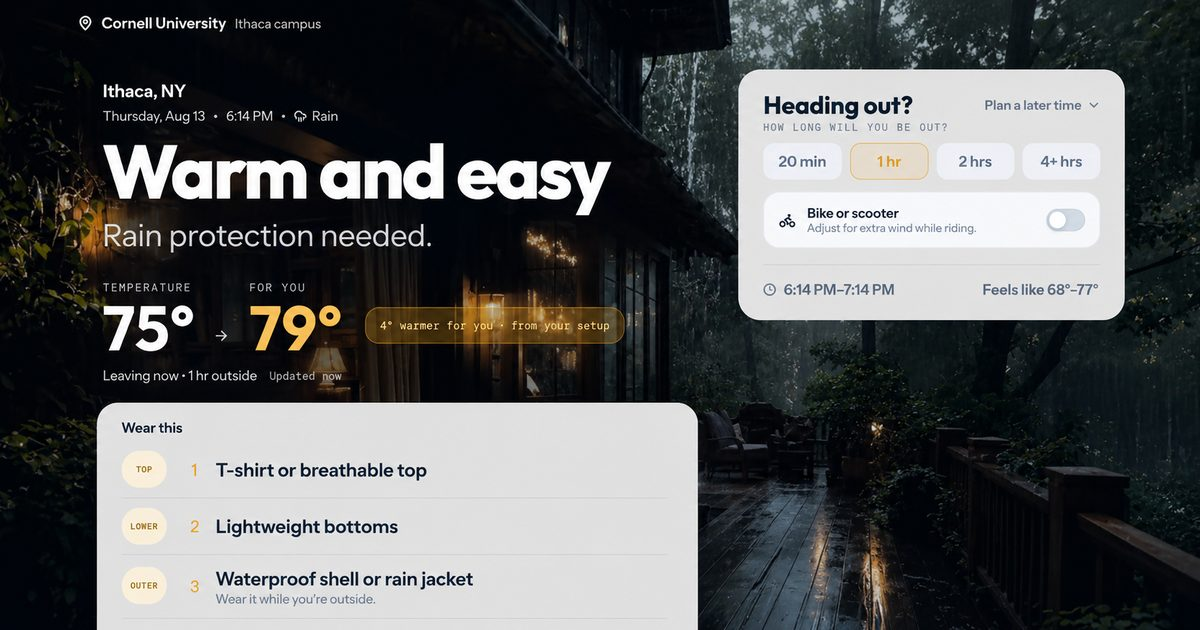
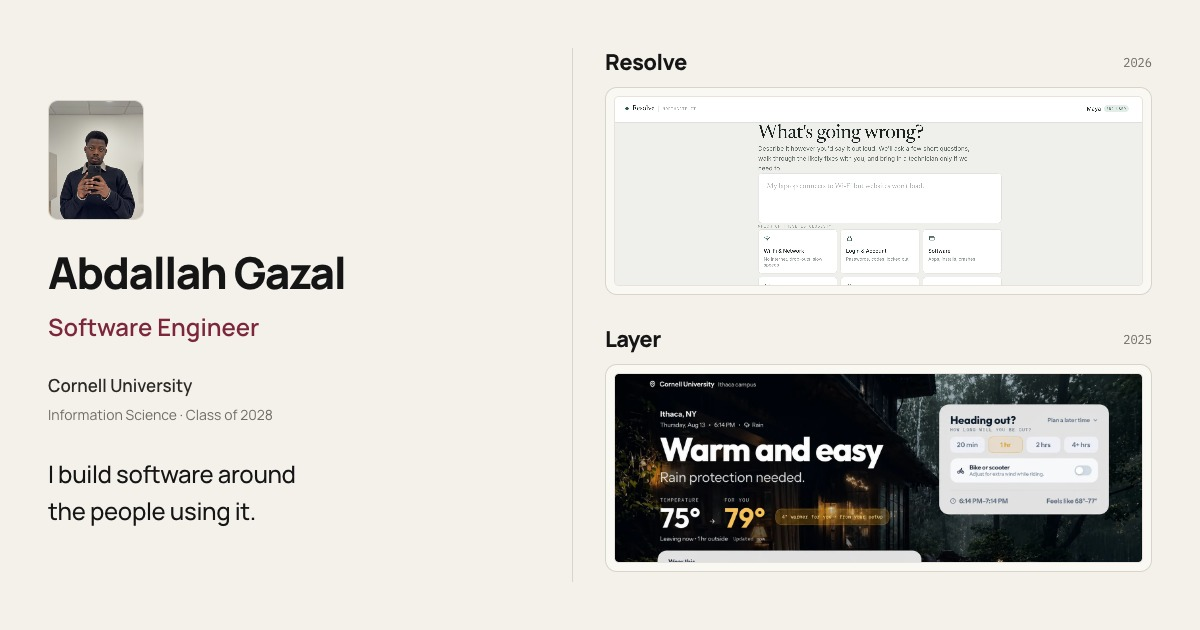
Polish portfolio for production

diff --git a/index.html b/index.html
@@ -11,8 +11,10 @@
   <meta property="og:title" content="Abdallah Gazal | Software Engineer">
   <meta property="og:description" content="I build software around the people using it. Projects and experience from a Cornell Information Science student.">
   <meta property="og:image" content="https://amgazal.com/og-image.jpg">
-  <meta property="og:image:alt" content="Layer, a weather and clothing recommendation project by Abdallah Gazal">
+  <meta property="og:image:alt" content="Abdallah Gazal — Software Engineer, Cornell University. Portfolio featuring Resolve and Layer.">
   <meta property="og:site_name" content="Abdallah Gazal Portfolio">
+  <meta property="og:image:width" content="1200">
+  <meta property="og:image:height" content="630">
   <meta name="twitter:card" content="summary_large_image">
   <meta name="author" content="Abdallah Gazal">
   <meta name="theme-color" content="#f4f1ea">
@@ -48,14 +50,14 @@
         <p class="supporting">From the interface to the systems behind it.</p>
         <div class="primary-actions">
           <a class="button button-primary" href="Abdallah_Gazal_Resume.pdf" target="_blank" rel="noopener noreferrer">Resume</a>
-          <a class="button" href="mailto:amg526@cornell.edu" target="_blank" rel="noopener noreferrer">Email</a>
+          <a class="button" href="mailto:amg526@cornell.edu">Email</a>
         </div>
         <div class="social-links">
           <a href="https://github.com/amgazal" target="_blank" rel="noopener noreferrer">GitHub</a>
           <a href="https://www.linkedin.com/in/abdallah-m-gazal" target="_blank" rel="noopener noreferrer">LinkedIn</a>
         </div>
       </div>
-      <div class="identity-bottom"><p>Ithaca, NY</p><p>Cornell University</p></div>
+      <div class="identity-bottom"><p>Ithaca, NY</p></div>
     </header>
     <div class="content">
       <div class="topbar">
@@ -74,35 +76,41 @@
         <section id="work" aria-labelledby="work-title">
           <h2 id="work-title">Selected work</h2>
           <article class="featured" id="resolve">
-            <a class="project-image resolve-image" href="resolve.png" target="_blank" rel="noopener noreferrer" aria-label="View full Resolve screenshot">
-              <img src="resolve.png" alt="Resolve guides a user from an IT problem to a troubleshooting category" width="2856" height="1594" decoding="async">
-            </a>
-            <div class="project-heading"><h3>Resolve</h3><span class="meta">2026</span></div>
-            <p class="project-description">Guided troubleshooting that turns vague IT problems into technician-ready support tickets.</p>
-            <p class="project-context">Built after repeatedly seeing the same points of friction while helping people troubleshoot technology.</p>
-            <p class="tech">React · TypeScript · PostgreSQL · Supabase</p>
-            <div class="project-links">
-              <a href="https://resolve.amgazal.com/" target="_blank" rel="noopener noreferrer">Live demo</a>
-              <a href="https://github.com/amgazal/Resolve" target="_blank" rel="noopener noreferrer">GitHub</a>
+            <div class="featured-copy">
+              <div class="project-heading"><h3>Resolve</h3><span class="meta">2026</span></div>
+              <p class="project-description">Turns unclear IT problems into guided troubleshooting and clearer support requests.</p>
+              <p class="project-context">I built Resolve after seeing how often getting technical help starts with the same problem: explaining what went wrong.</p>
+              <p class="tech">React · TypeScript · PostgreSQL · Supabase</p>
+              <div class="project-links">
+                <a href="https://resolve.amgazal.com/" target="_blank" rel="noopener noreferrer">Live demo</a>
+                <a href="https://github.com/amgazal/Resolve" target="_blank" rel="noopener noreferrer">GitHub</a>
+              </div>
             </div>
+            <a class="project-image resolve-image" href="resolve.png" target="_blank" rel="noopener noreferrer" aria-label="View full Resolve screenshot">
+              <img src="resolve.webp" alt="Resolve guides a user from an IT problem to a troubleshooting category" width="2856" height="1594" decoding="async">
+            </a>
           </article>
           <article class="featured" id="layer">
+            <div class="featured-copy">
+              <div class="project-heading"><h3>Layer</h3><span class="meta">2025</span></div>
+              <p class="project-description">Helps you decide what to wear based on the weather, your comfort, and what you're heading out to do.</p>
+              <p class="project-context">I started Layer after realizing that the temperature alone doesn't always tell you what the weather will actually feel like.</p>
+              <p class="tech">React · JavaScript · PostgreSQL · Supabase</p>
+              <div class="project-links">
+                <a href="https://amgazal.github.io/Layer/" target="_blank" rel="noopener noreferrer">Live</a>
+                <a href="https://github.com/amgazal/Layer" target="_blank" rel="noopener noreferrer">GitHub</a>
+              </div>
+            </div>
             <a class="project-image layer-image" href="layer.png" target="_blank" rel="noopener noreferrer" aria-label="View full Layer screenshot">
               <img src="layer.webp" alt="Layer pairs Ithaca weather and a comfort-adjusted temperature with clothing and outing recommendations" width="1600" height="900" loading="lazy" decoding="async">
             </a>
-            <div class="project-heading"><h3>Layer</h3><span class="meta">2025</span></div>
-            <p class="project-description">Personalized clothing recommendations built around weather, comfort, and outing context.</p>
-            <p class="tech">React · JavaScript · PostgreSQL · Supabase</p>
-            <div class="project-links">
-              <a href="https://amgazal.github.io/Layer/" target="_blank" rel="noopener noreferrer">Live</a>
-              <a href="https://github.com/amgazal/Layer" target="_blank" rel="noopener noreferrer">GitHub</a>
-            </div>
           </article>
           <div class="supporting-projects">
             <article id="bridge">
-              <p class="project-label">Stellic Pathfinders Challenge</p>
+              <p class="project-label">Stellic Pathfinders Challenge · 2026</p>
               <h3>Bridge</h3>
-              <p>Guided journeys for international students navigating unfamiliar university and administrative processes.</p>
+              <p>Breaks unfamiliar university processes into clear steps so international students know what to do and what comes next.</p>
+              <p class="project-context">It grew out of how overwhelming routine forms and processes can feel when you are navigating a new university system for the first time.</p>
               <p class="tech">React · TypeScript · Vite</p>
               <div class="project-links">
                 <a href="https://bridge-navigator.netlify.app/" target="_blank" rel="noopener noreferrer">Live</a>
@@ -112,7 +120,8 @@
             <article>
               <p class="project-label">Machine learning / NLP</p>
               <h3>AI Tweet Detection</h3>
-              <p>Compared BERT, Random Forest, and Logistic Regression for classifying human- and AI-generated tweets.</p>
+              <p>Explores how well different machine learning approaches can distinguish human-written tweets from AI-generated ones.</p>
+              <p class="project-context">I compared BERT, Random Forest, and Logistic Regression to see where the models differed, not just which one produced the highest score.</p>
               <p class="tech">Python · pandas · scikit-learn</p>
               <div class="project-links">
                 <a href="https://machine-learning-project-22d-atu8bhkcttbebpd44xntd2.streamlit.app" target="_blank" rel="noopener noreferrer">Live</a>
@@ -123,14 +132,14 @@
           <div class="more-work">
             <h3>More work</h3>
             <article class="work-row">
-              <div><h4>Future Civilisations</h4><p>Built and maintain a live conference website as event requirements evolve.</p></div>
+              <div><h4>Future Civilisations</h4><p>A live conference website I maintain as speakers, schedules, and event requirements change.</p></div>
               <div class="project-links"><a href="https://futurecivilizations.com/" target="_blank" rel="noopener noreferrer">Live</a><a href="https://github.com/amgazal/Future-Civilisations-Conference-Apr-18" target="_blank" rel="noopener noreferrer">GitHub</a></div>
             </article>
             <article class="work-row">
-              <div><h4>Color Model Converter</h4><p>A Python tool for converting and synchronizing RGB, CMYK, and HSV values.</p></div>
+              <div><h4>Color Model Converter</h4><p>A Python tool for exploring how colors translate across RGB, CMYK, and HSV models.</p></div>
             </article>
             <article class="work-row">
-              <div><h4>Image Editor</h4><p>A Python image editor with cumulative filters and pixel-level transformations.</p></div>
+              <div><h4>Image Editor</h4><p>A Python image editor built around cumulative filters and pixel-level transformations.</p></div>
             </article>
           </div>
         </section>
@@ -182,9 +191,9 @@
         <section id="contact" aria-labelledby="contact-title">
           <h2 id="contact-title">Let’s talk</h2>
           <p>If you want to talk about a project, a role, or something interesting to build, send me a message.</p>
-          <a class="email-address" href="mailto:amg526@cornell.edu" target="_blank" rel="noopener noreferrer">amg526@cornell.edu</a>
+          <a class="email-address" href="mailto:amg526@cornell.edu">amg526@cornell.edu</a>
           <div class="contact-actions">
-            <a class="button button-primary" href="mailto:amg526@cornell.edu" target="_blank" rel="noopener noreferrer">Email</a>
+            <a class="button button-primary" href="mailto:amg526@cornell.edu">Email</a>
             <a href="https://www.linkedin.com/in/abdallah-m-gazal" target="_blank" rel="noopener noreferrer">LinkedIn</a>
             <a href="https://github.com/amgazal" target="_blank" rel="noopener noreferrer">GitHub</a>
             <a href="Abdallah_Gazal_Resume.pdf" target="_blank" rel="noopener noreferrer">Resume</a>

diff --git a/styles.css b/styles.css
@@ -65,6 +65,7 @@ h1 { font-size: 27px; letter-spacing: -1.1px; font-weight: 800; }
 .button { display: inline-flex; align-items: center; justify-content: center; gap: 18px; border: 1px solid var(--line); border-radius: 8px; min-height: 44px; padding: 9px 17px; font-size: 13px; font-weight: 700; transition: color 180ms ease, background-color 180ms ease, border-color 180ms ease; }
 .button:hover { border-color: var(--accent); background: var(--accent-soft); }
 .button-primary { color: var(--button-text); background: var(--button); border-color: var(--button); }
+.button-primary:focus-visible { color: var(--button-text); }
 .button-primary:hover { background: var(--accent); color: var(--page); border-color: var(--accent); }
 .social-links { display: flex; gap: 25px; margin-top: 10px; font-size: 13px; }
 .social-links a { padding-block: 10px; }
@@ -76,22 +77,28 @@ nav { display: flex; gap: 3px; padding: 4px; background: var(--surface); border:
 nav a { transition: color 180ms ease, background-color 180ms ease; padding: 7px 14px; border-radius: 6px; font-size: 13px; font-weight: 600; min-height: 36px; }
 nav a[aria-current] { background: var(--button); color: var(--button-text); }
 .theme-toggle { flex-shrink: 0; width: 40px; height: 40px; display: grid; place-items: center; border: 1px solid var(--line); background: transparent; color: var(--muted); border-radius: 50%; }
-.theme-toggle:hover { color: var(--accent); background: var(--surface); }
+.theme-toggle:hover, .theme-toggle:focus-visible { color: var(--accent); background: var(--surface); }
 .sun, [data-theme="dark"] .moon { display: none; }
 [data-theme="dark"] .sun { display: block; }
 main > section { padding: 48px 0; border-bottom: 1px solid var(--line); }
 main > section:first-child { padding-top: 30px; }
 h2 { font-size: 24px; font-weight: 700; letter-spacing: -.7px; margin-bottom: 26px; }
-.featured + .featured { margin-top: 38px; }
+.featured { border: 1px solid var(--line); border-radius: 12px; background: var(--surface); }
+.featured-copy { padding: 22px 24px 10px; }
+.featured-copy .tech { margin-top: 12px; }
+.featured-copy .project-links { margin-top: 2px; }
+.featured-copy .meta { font-size: 12px; }
+.featured + .featured { margin-top: 40px; }
+.featured .project-image { border: 0; border-top: 1px solid var(--line-soft); border-radius: 0 0 12px 12px; }
 .project-image { display: block; border: 1px solid var(--line); padding: 18px; border-radius: 12px; background: var(--surface); overflow: hidden; }
 .project-image img { width: 100%; height: auto; border: 1px solid var(--line-soft); border-radius: 5px; transition: transform 200ms ease; }
 .project-image:hover img { transform: scale(1.01); }
 .resolve-image img { aspect-ratio: 1.85; object-fit: cover; object-position: 50% 35%; }
-.project-heading { display: flex; align-items: center; justify-content: space-between; gap: 16px; margin: 20px 0 10px; }
-.project-heading h3 { font-size: 23px; font-weight: 800; letter-spacing: -.6px; }
+.project-heading { display: flex; align-items: center; justify-content: space-between; gap: 16px; margin: 0 0 14px; }
+.project-heading h3 { font-size: 32px; font-weight: 800; letter-spacing: -.6px; }
 .meta, .date { font: 11px/1.6 var(--mono); color: var(--muted); }
-.project-description { max-width: 620px; font-size: 16px; line-height: 1.65; }
-.project-context { margin-top: 8px; color: var(--muted); font-size: 13px; max-width: 630px; }
+.project-description { max-width: 620px; font-size: 17px; font-weight: 500; line-height: 1.45; }
+.project-context { margin-top: 10px; color: var(--muted); font-size: 14px; max-width: 630px; }
 .tech { color: var(--muted); font: 11px/1.9 var(--mono); margin-top: 14px; }
 .project-links { display: flex; align-items: center; flex-wrap: wrap; gap: 22px; margin-top: 8px; font-size: 13px; font-weight: 700; }
 .project-links a { display: inline-flex; align-items: center; gap: 7px; min-height: 44px; }
@@ -173,13 +180,15 @@ footer { padding: 25px 0 30px; color: var(--muted); font: 11px var(--mono); }
   .statement { font-size: 22px; max-width: 310px; }
   .topbar { gap: 6px; }
   nav { gap: 0; padding: 3px; }
-  nav a { transition: color 180ms ease, background-color 180ms ease; padding: 9px 9px; font-size: 12px; }
+  nav a { padding: 9px 9px; font-size: 12px; }
   .theme-toggle { width: 36px; height: 36px; }
   main > section { padding-block: 36px; }
   h2 { font-size: 22px; margin-bottom: 22px; }
   .project-image { padding: 8px; border-radius: 10px; }
   .resolve-image img { aspect-ratio: 1.45; }
   .layer-image img { aspect-ratio: 1.45; object-fit: cover; object-position: 40% center; }
+  .featured-copy { padding: 18px 16px 10px; }
+  .project-heading h3 { font-size: 28px; }
   .project-description { font-size: 15px; }
   .project-context { font-size: 13px; }
   .supporting-projects { grid-template-columns: 1fr; }

diff --git a/DEPLOY.md b/DEPLOY.md
@@ -1,29 +1,10 @@
-# Safe GitHub update
+# Deployment
 
-This package is complete: it includes the Layer screenshot and the PDF resume referenced by the site.
+The portfolio is served by GitHub Pages at https://amgazal.com/.
 
-The safest update is to copy it over your existing clone **without `--delete`** so unrelated files in the repository are not removed accidentally.
+This is a static HTML/CSS/JavaScript site with no build step. Preserve `CNAME`
+and include the referenced images, favicon, and `Abdallah_Gazal_Resume.pdf`
+when publishing an approved revision.
 
-```bash
-cd ~/Downloads
-rm -rf portfolio-rebuild-extracted
-unzip -q abdallah-portfolio-premium-rebuild-final.zip -d portfolio-rebuild-extracted
-
-rsync -av \
-  --exclude=".git" \
-  ~/Downloads/portfolio-rebuild-extracted/abdallah-portfolio-premium-rebuild-final/ \
-  ~/Downloads/my-portfolio-update/
-
-cd ~/Downloads/my-portfolio-update
-git status
-git add -A
-git commit -m "Polish portfolio content, visuals, and intro"
-git push origin main
-```
-
-If `my-portfolio-update` no longer exists, clone it again first:
-
-```bash
-cd ~/Downloads
-git clone https://github.com/amgazal/my-portfolio.git my-portfolio-update
-```
+`QA.md` is local development documentation, excluded from version control.
+If packaging files manually, exclude it from the published files as well.

diff --git a/README.md b/README.md
@@ -16,10 +16,10 @@ Open http://localhost:8000.
 - `styles.css`: warm light palette, intentional dark palette, sticky desktop identity rail, and single-column layouts at 900px and below.
 - `script.js`: persisted theme preference and active section navigation.
 - `headshot.jpg`: original portrait; `assets/headshot-small.jpg`: smaller responsive copy.
-- `resolve.png`, `layer.webp`: featured previews. Full-resolution originals remain available through the preview links.
+- `resolve.webp`, `layer.webp`: featured previews. Full-resolution originals remain available through the preview links.
 - `Abdallah_Gazal_Resume.pdf`: the only resume PDF; every Resume action uses this exact filename.
 - `CNAME`: existing custom domain, unchanged.
 
 The page is readable without JavaScript. Theme preference follows the system until a visitor makes a manual selection. Reduced motion disables smooth scrolling and hover movement. All navigation links remain visible on mobile.
 
-Changes remain local for owner review; nothing has been committed or published.
+The site is deployed through GitHub Pages at https://amgazal.com.
